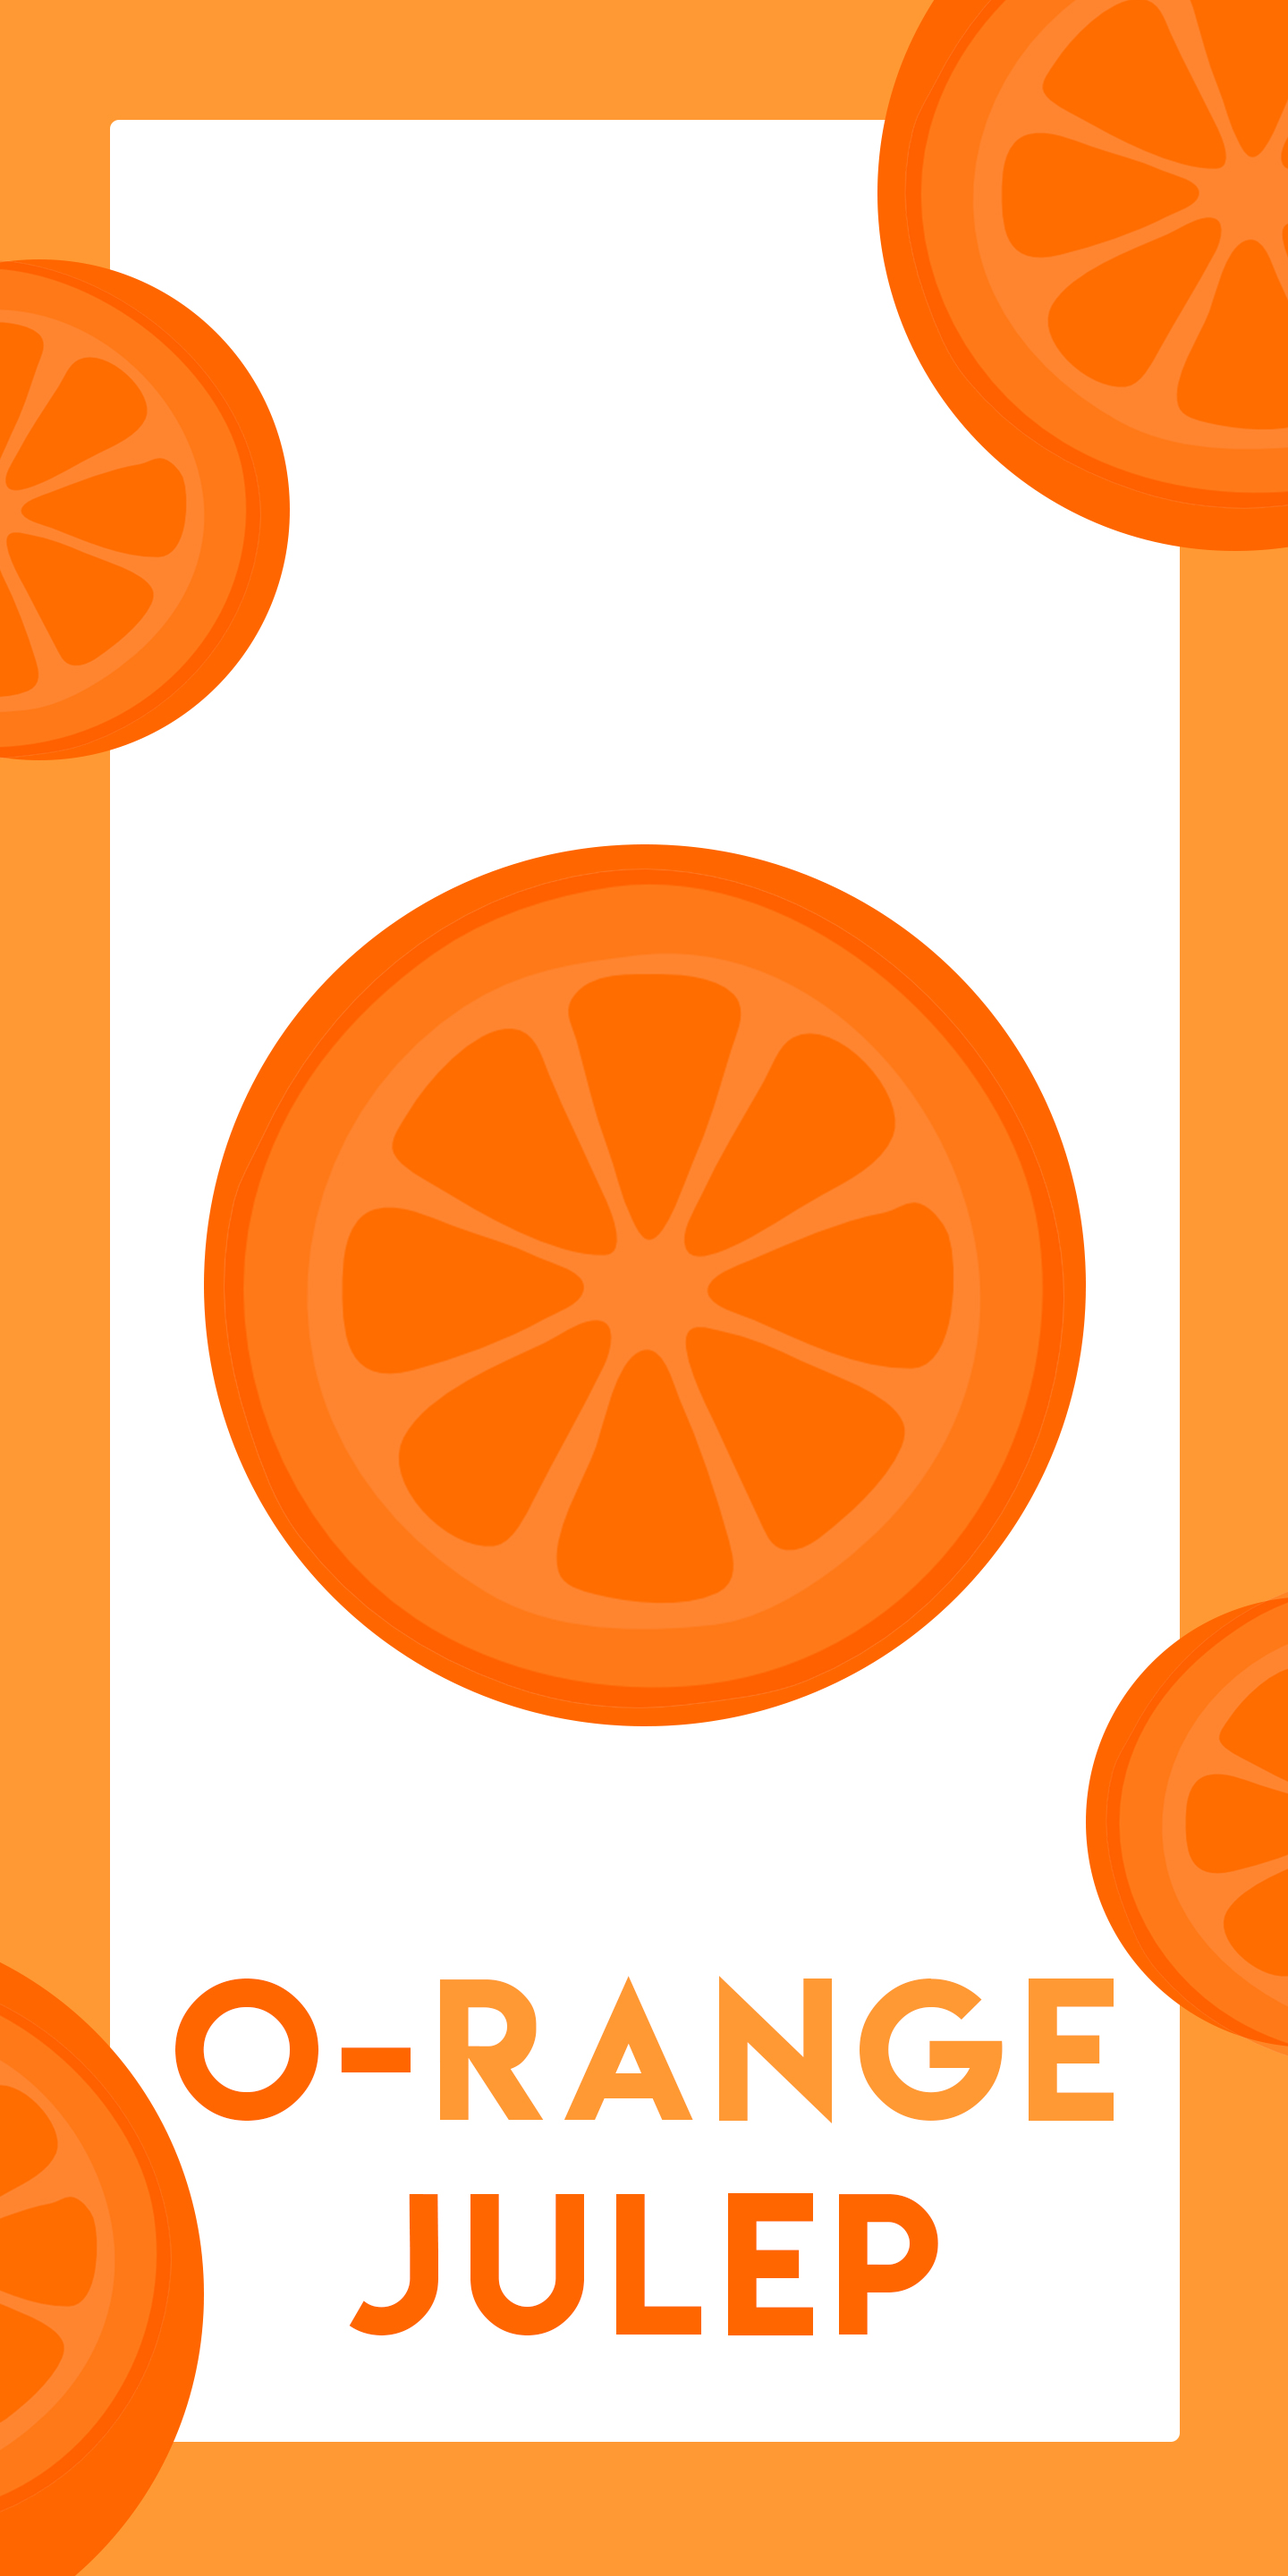
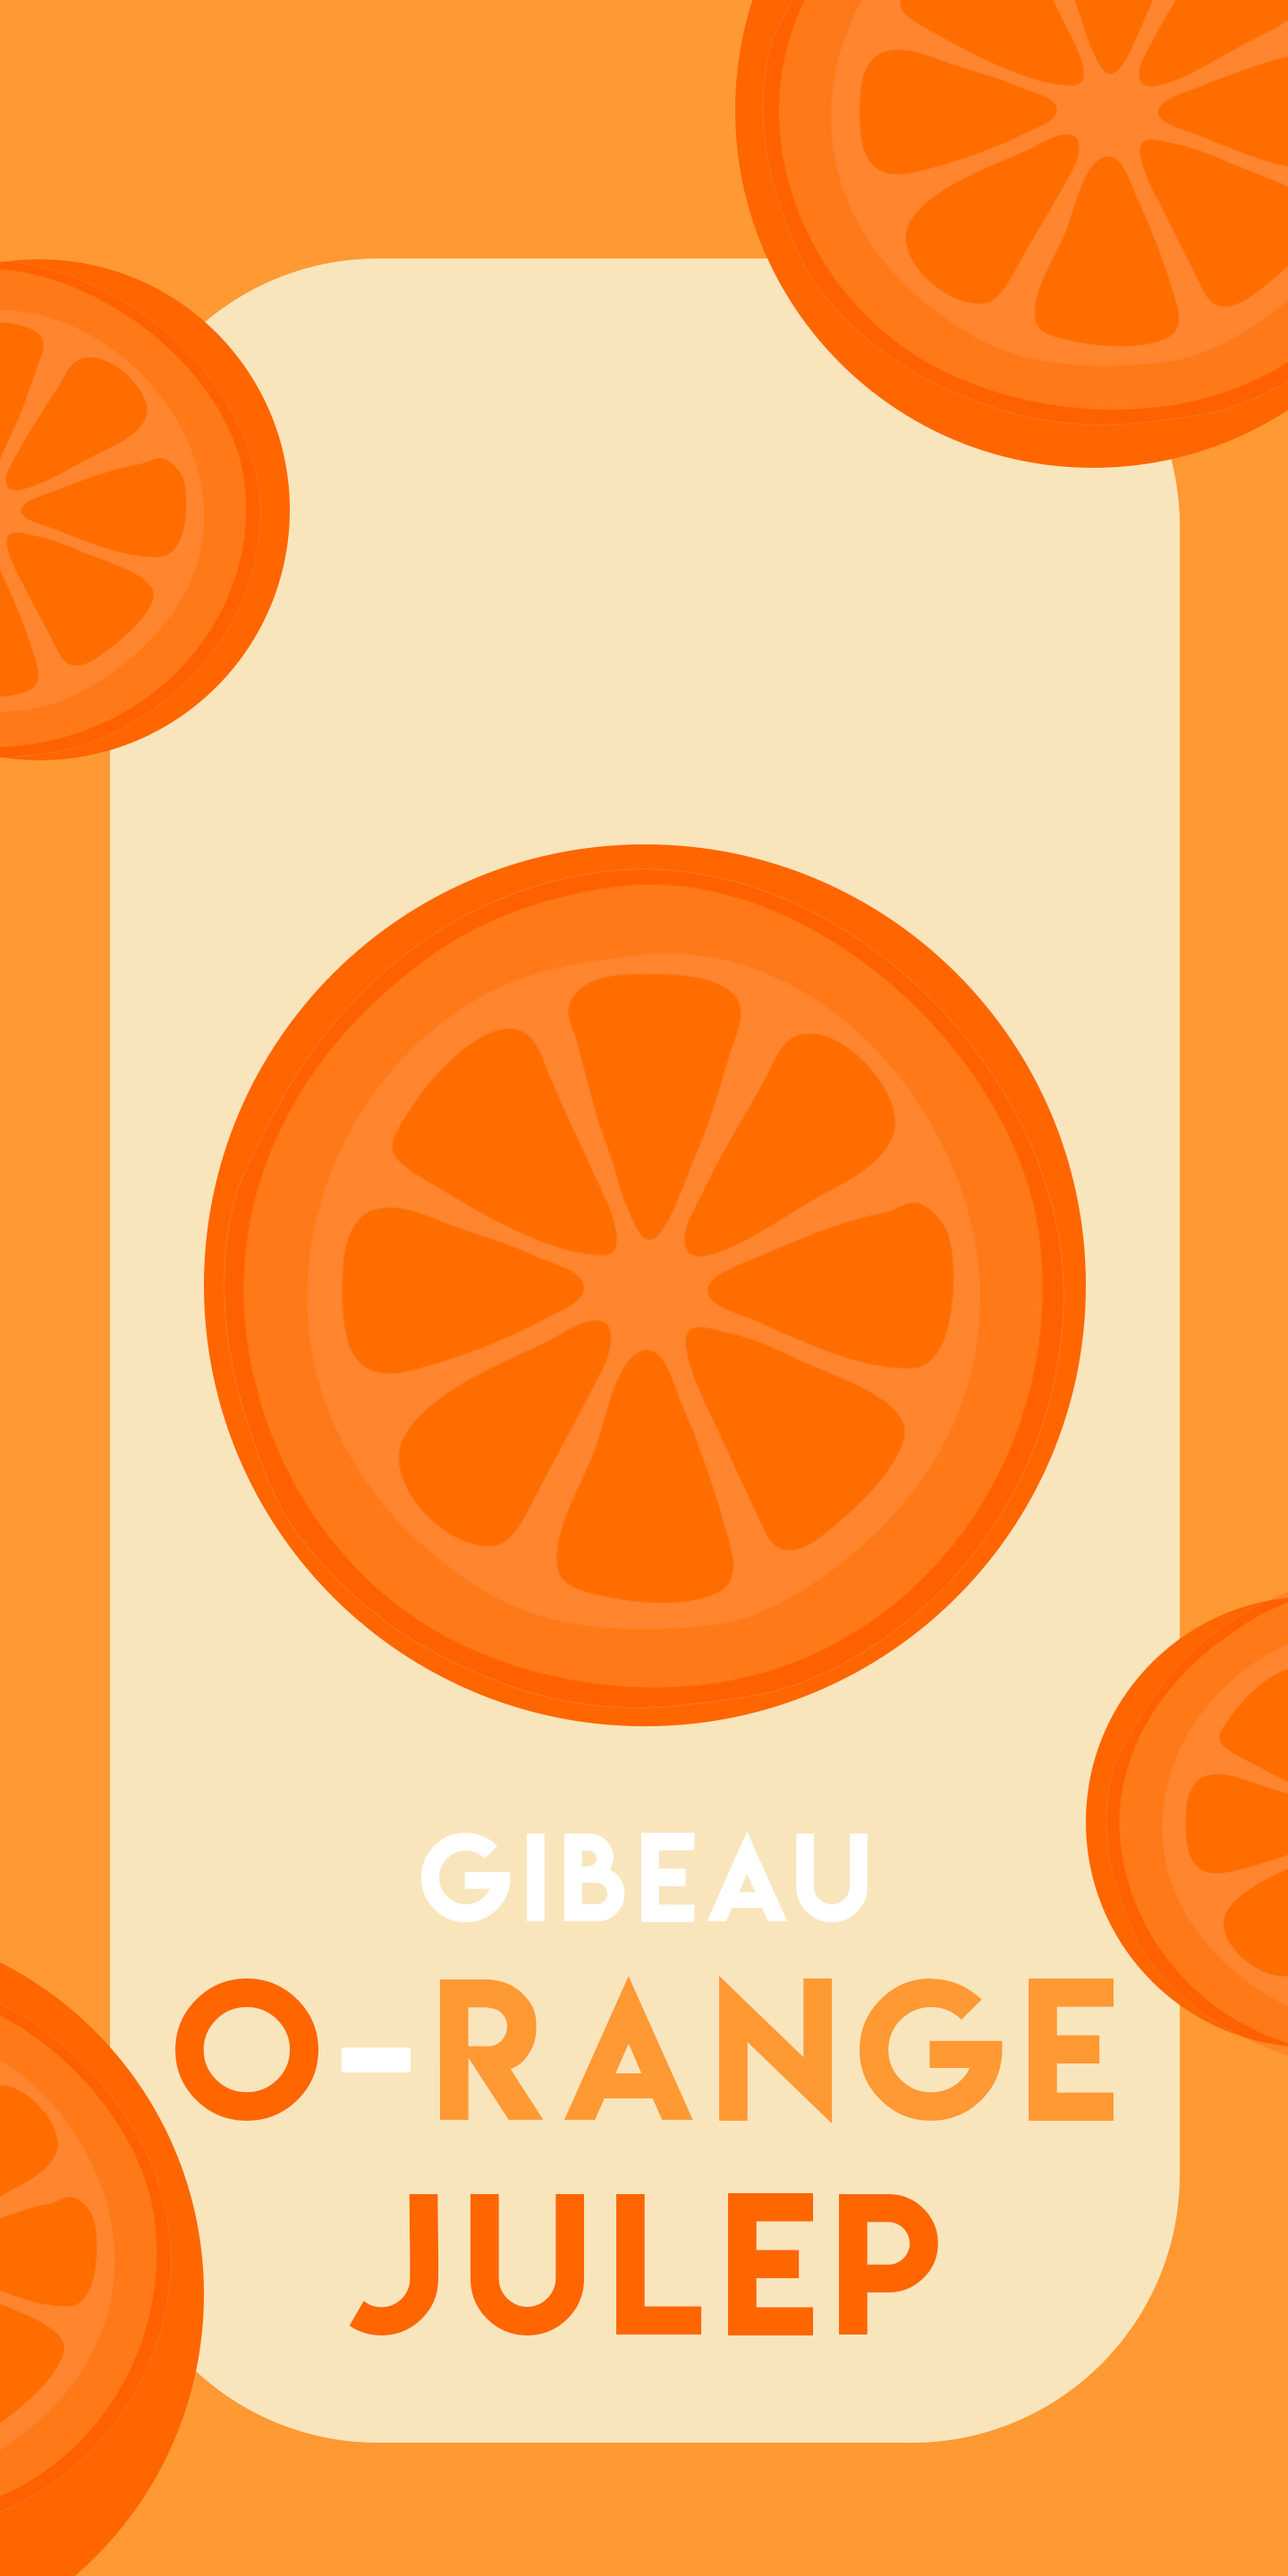
Updated UI and fixed compass and everything ELSE. 28 hours since last time Jason has slept.

diff --git a/lib/main.dart b/lib/main.dart
@@ -6,6 +6,7 @@ import 'package:provider/provider.dart';
 import 'package:orange_julep/datamodels/user_location.dart';
 import 'package:great_circle_distance/great_circle_distance.dart';
 import 'package:geodesy/geodesy.dart';
+import 'package:google_fonts/google_fonts.dart';
 
 
 void main() => runApp(MyApp());
@@ -57,11 +58,6 @@ class _CompassState extends State<Compass> {
 
   void _onData(double x) => setState(() { _heading = x; });
 
-  final TextStyle _style = TextStyle(
-    color: Colors.red[50].withOpacity(0.9),
-    fontSize: 32,
-    fontWeight: FontWeight.w200,
-  );
 
   double calcBearing(double lat1, double lon1, double lat2, double lon2) {
     Geodesy geodesy = Geodesy();
@@ -96,9 +92,38 @@ class _CompassState extends State<Compass> {
     double lat2 = 45.495682;
     double lon2 = -73.656840;
 
-    double compassAngle = calcBearing(lat1, lon1, lat2, lon2)-_heading;
-    compassAngle = compassAngle.abs();
+    double _goalBearing = calcBearing(lat1, lon1, lat2, lon2);
+    double compassAngle = 360-(_goalBearing-_heading);
+//    if (compassAngle > 180) {
+//      compassAngle -= 180;
+//    }
 
+    final TextStyle _style = GoogleFonts.fredokaOne(
+      fontSize: 48,
+      fontWeight: FontWeight.normal
+    );
+
+//    return Container (
+//        child: new Stack(
+//          children: <Widget>[
+//            new Center(child: Text(calcDist(lat1, lon1, lat2, lon2),
+//            style: _style,)),
+//            new Transform.rotate(
+//              angle: 1.0,
+//              origin: Offset(357.0, 357.0),
+//              child: Container (
+//                height : 714.0,
+//                width : 714.0,
+//                child: Image(image: AssetImage('assets/try2.png')),
+//              )
+//            ),
+//            new Container(
+//              child: Image(image: AssetImage('assets/try2.png'))
+//            )
+//
+//          ]
+//      )
+//    );
     return CustomPaint(
         foregroundPainter: CompassPainter(angle: compassAngle),
         child: Center(child: Text(calcDist(lat1, lon1, lat2, lon2), style: _style))
@@ -115,7 +140,8 @@ class CompassPainter extends CustomPainter {
 
   Paint get _brush => new Paint()
     ..style = PaintingStyle.stroke
-    ..strokeWidth = 2.0;
+    ..strokeWidth = 15.0
+    ..strokeCap = StrokeCap.round;
 
   @override
   void paint(Canvas canvas, Size size) {
@@ -124,7 +150,8 @@ class CompassPainter extends CustomPainter {
       ..color = Colors.indigo[400].withOpacity(0.6);
 
     Paint needle = _brush
-      ..color = Colors.red[400];
+//      ..color = Colors.red;
+      ..color = Colors.lightGreen[800];
 
     double radius = min(size.width / 2.2, size.height / 2.2);
     Offset center = Offset(size.width / 2, size.height / 2);
@@ -135,7 +162,7 @@ class CompassPainter extends CustomPainter {
     canvas.rotate(rotation);
     canvas.translate(-center.dx, -center.dy);
     canvas.drawLine(start, end, needle);
-    canvas.drawCircle(center, radius, circle);
+//    canvas.drawCircle(center, radius, circle);
   }
 
   @override

diff --git a/lib/services/location_service.dart b/lib/services/location_service.dart
@@ -1,17 +1,17 @@
-import 'dart:async';
-
 import 'package:location/location.dart';
 import 'package:orange_julep/datamodels/user_location.dart';
+import 'dart:async';
 
-class LocationServices {
+class LocationService {
   UserLocation _currentLocation;
 
-  Location location = Location();
+  var location = Location();
 
   StreamController<UserLocation> _locationController =
-    StreamController<UserLocation>.broadcast();
+  StreamController<UserLocation>();
 
   Stream<UserLocation> get locationStream => _locationController.stream;
+
   LocationService() {
     // Request permission to use location
     location.requestPermission().then((granted) {
@@ -29,18 +29,65 @@ class LocationServices {
     });
   }
 
-
   Future<UserLocation> getLocation() async {
     try {
-      var userLocation = await location.getLocaion();
-      _currentLocation = UserLocation(latitude: userLocation.latitude,
-      longitude: userLocation.longitude,
+      var userLocation = await location.getLocation();
+      _currentLocation = UserLocation(
+        latitude: userLocation.latitude,
+        longitude: userLocation.longitude,
       );
-    } catch(e){
-      print('Could not get the location $e');
-
+    } on Exception catch (e) {
+      print('Could not get location: ${e.toString()}');
     }
 
     return _currentLocation;
   }
 }
+
+//import 'dart:async';
+//
+//import 'package:location/location.dart';
+//import 'package:orange_julep/datamodels/user_location.dart';
+//
+//class LocationService {
+//  UserLocation _currentLocation;
+//
+//  Location location = Location();
+//
+//  StreamController<UserLocation> _locationController =
+//    StreamController<UserLocation>.broadcast();
+//
+//  Stream<UserLocation> get locationStream => _locationController.stream;
+//
+//  LocationService() {
+//    // Request permission to use location
+//    location.requestPermission().then((granted) {
+//      if (granted) {
+//        // If granted listen to the onLocationChanged stream and emit over our controller
+//        location.onLocationChanged().listen((locationData) {
+//          if (locationData != null) {
+//            _locationController.add(UserLocation(
+//              latitude: locationData.latitude,
+//              longitude: locationData.longitude,
+//            ));
+//          }
+//        });
+//      }
+//    });
+//  }
+//
+//
+//  Future<UserLocation> getLocation() async {
+//    try {
+//      var userLocation = await location.getLocation();
+//      _currentLocation = UserLocation(latitude: userLocation.latitude,
+//      longitude: userLocation.longitude,
+//      );
+//    } catch(e){
+//      print('Could not get the location $e');
+//
+//    }
+//
+//    return _currentLocation;
+//  }
+//}
